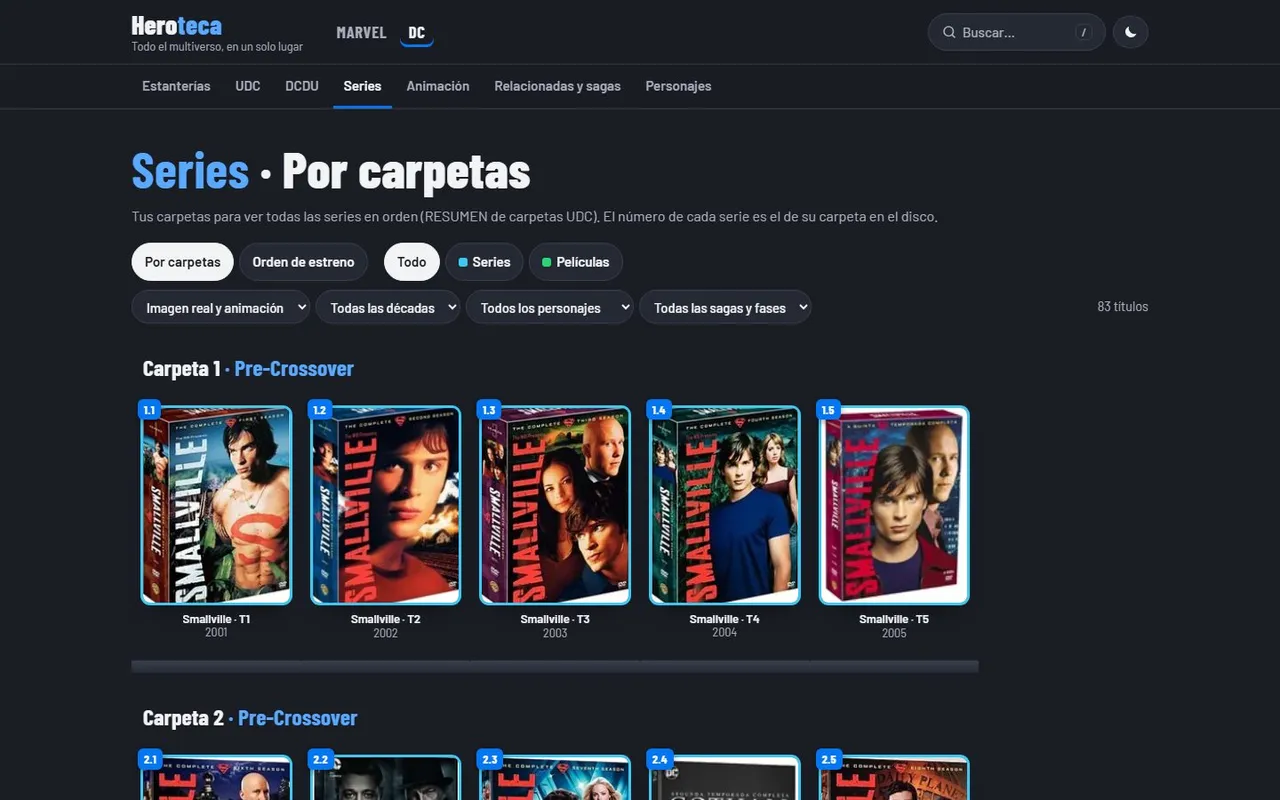
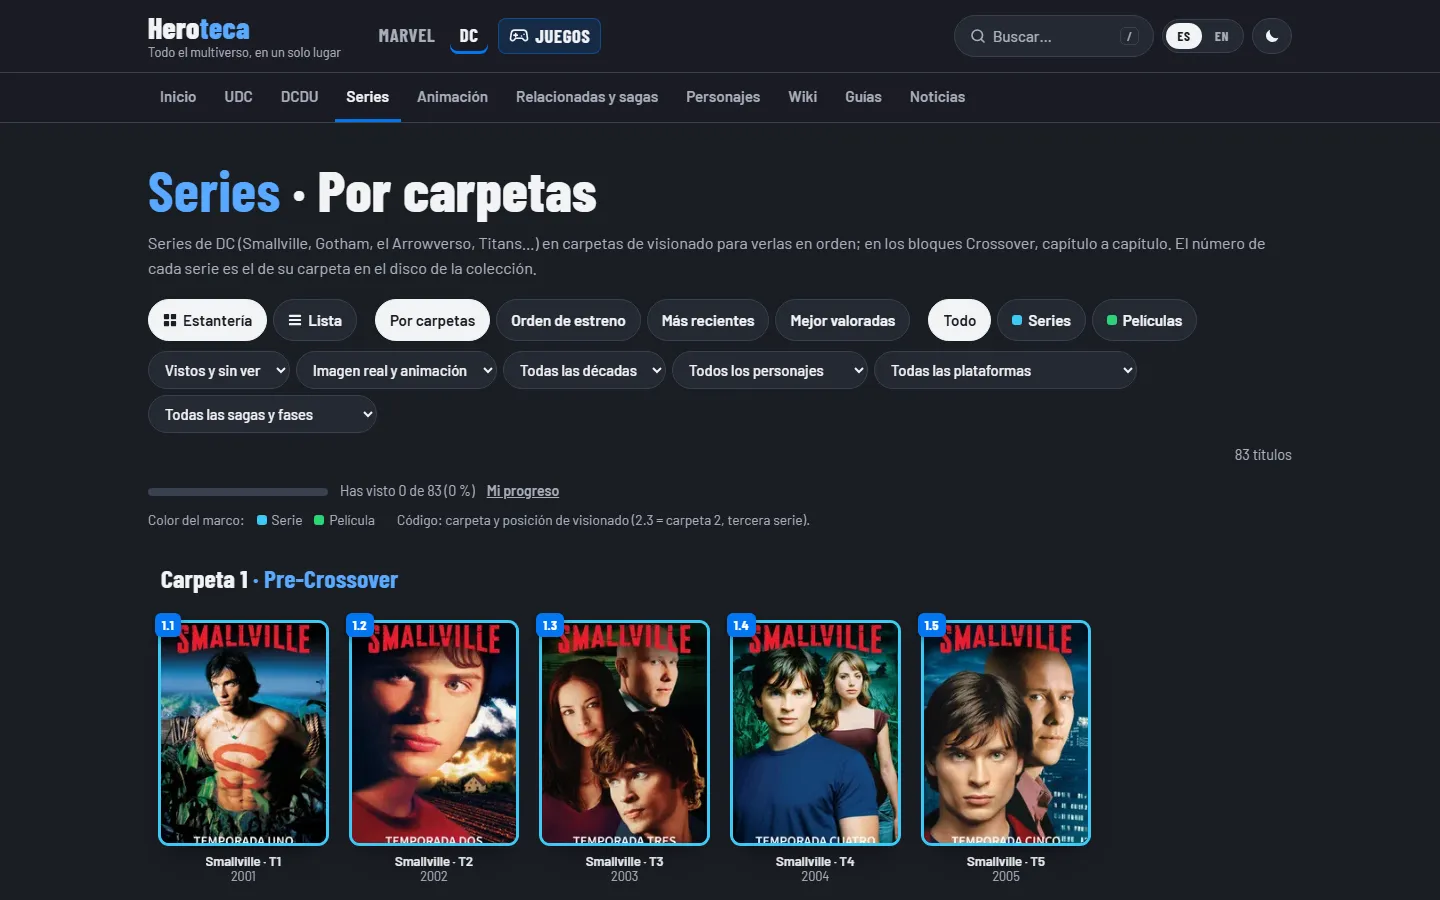
Heroteca como proyecto principal y ficha al día
- Heroteca pasa a ser el primer proyecto.
- Corrige datos antiguos: bilingüe, 426 fichas, 180 personajes y Lighthouse.
- Añade herramientas, datos automáticos y capturas nuevas de la web publicada.
- Café Sinnoh: el aviso indica qué credenciales se han cambiado y cuáles faltan.

diff --git a/src/content/projects/heroteca/index.ts b/src/content/projects/heroteca/index.ts
@@ -2,10 +2,12 @@ import type { Project } from "@/content/types";
 import cover from "./cover.webp";
 import dcOrdenCrossover from "./dc-orden-crossover.webp";
 import dcSeriesCarpetas from "./dc-series-carpetas.webp";
+import estadisticas from "./estadisticas.webp";
 import ficha from "./ficha.webp";
 import marvelUmcClaro from "./marvel-umc-claro.webp";
+import pasatiempos from "./pasatiempos.webp";
 
-// Datos tomados del README de heroteca y de la medición de Lighthouse que hizo el autor.
+// Datos tomados del README de heroteca, que incluye la medición de Lighthouse.
 // No añadir nada que no esté allí.
 export const heroteca: Project = {
   slug: "heroteca",
@@ -13,8 +15,8 @@ export const heroteca: Project = {
   year: 2026,
   featured: true,
   summary: {
-    es: "Enciclopedia de películas, series y animación de Marvel y DC generada a partir de un archivo personal de documentos Word y PowerPoint: 423 fichas, estanterías con la numeración original y órdenes de visionado capítulo a capítulo.",
-    en: "An encyclopedia of Marvel and DC films, series and animation generated from a personal archive of Word and PowerPoint documents: 423 entries, shelves with the original numbering and episode-by-episode viewing orders.",
+    es: "Enciclopedia bilingüe de películas, series y animación de Marvel y DC generada a partir de un archivo personal de documentos Word y PowerPoint: 426 fichas, órdenes de visionado capítulo a capítulo y datos que se actualizan solos.",
+    en: "A bilingual encyclopedia of Marvel and DC films, series and animation generated from a personal archive of Word and PowerPoint documents: 426 entries, episode-by-episode viewing orders and data that updates itself.",
   },
   kind: {
     es: "Proyecto personal · Web pública",
@@ -25,34 +27,34 @@ export const heroteca: Project = {
     en: "Product, design and development",
   },
   duration: {
-    es: "oct. 2026",
-    en: "Oct 2026",
+    es: "oct.–nov. 2026",
+    en: "Oct–Nov 2026",
   },
-  stack: ["Astro", "TypeScript", "Zod", "Python", "TMDB API"],
+  stack: ["Astro", "TypeScript", "Zod", "Python", "TMDB API", "GitHub Actions"],
   links: {
     live: "https://heroteca.vercel.app",
     repo: "https://github.com/Vicram4/heroteca",
   },
   liveKind: "site",
   liveNote: {
-    es: "Pulsa / en cualquier página para buscar. La web está solo en español.",
-    en: "Press / on any page to search. The site is in Spanish only.",
+    es: "Pulsa / en cualquier página para buscar. Disponible en español e inglés.",
+    en: "Press / on any page to search. Available in Spanish and English.",
   },
   cover: {
     src: cover,
     alt: {
-      es: "Portada de Heroteca: el lema «Todo el multiverso, en un solo lugar» y la elección de universo, con dos tarjetas hechas de carátulas: Marvel, con 246 títulos, y DC, con 177.",
-      en: "Heroteca home page: the tagline “The whole multiverse, in one place” and a choice of universe, with two cards made of DVD covers: Marvel, with 246 titles, and DC, with 177.",
+      es: "Portada de Heroteca: el lema «Todo el multiverso, en un solo lugar», el selector de idioma y la elección de universo, con dos tarjetas hechas de carteles: Marvel, con 247 títulos, y DC, con 179. Debajo, el test «¿No sabes qué ver?».",
+      en: "Heroteca home page: the tagline “The whole multiverse, in one place”, the language switcher and a choice of universe, with two cards made of posters: Marvel, with 247 titles, and DC, with 179. Below, the “Not sure what to watch?” quiz.",
     },
   },
 
   stats: [
-    { value: "423", label: { es: "fichas de Marvel y DC", en: "Marvel and DC entries" } },
+    { value: "426", label: { es: "fichas de Marvel y DC", en: "Marvel and DC entries" } },
     {
       value: "100",
       label: {
-        es: "en accesibilidad y SEO (Lighthouse)",
-        en: "accessibility and SEO (Lighthouse)",
+        es: "en accesibilidad, SEO y buenas prácticas (Lighthouse)",
+        en: "accessibility, SEO and best practices (Lighthouse)",
       },
     },
     { value: "0 €", label: { es: "de coste: planes gratuitos", en: "cost: free plans only" } },
@@ -72,16 +74,16 @@ export const heroteca: Project = {
       group: { es: "Explorar", en: "Browsing" },
       items: {
         es: [
-          "Estanterías con la numeración original y orden alternable: de la historia o de estreno.",
+          "Estanterías con la numeración original, vista de lista y cuatro órdenes: el de la colección, estreno, más recientes y mejor valoradas.",
           "Series de DC ordenadas por carpetas, con el orden de visionado capítulo a capítulo entre varias series.",
-          "Filtros por tipo, década, personaje y saga.",
-          "Búsqueda instantánea con el atajo /, que también encuentra títulos originales y alternativos.",
+          "Filtros por tipo, década, personaje, saga y plataforma.",
+          "Búsqueda instantánea con el atajo /, que también encuentra títulos originales y alternativos, y actores.",
         ],
         en: [
-          "Shelves with the original numbering and a switchable order: story order or release order.",
+          "Shelves with the original numbering, a list view and four orders: collection, release, most recent and top rated.",
           "DC series ordered by folder, with the episode-by-episode viewing order across several series.",
-          "Filters by type, decade, character and saga.",
-          "Instant search with the / shortcut, which also finds original and alternative titles.",
+          "Filters by type, decade, character, saga and platform.",
+          "Instant search with the / shortcut, which also finds original and alternative titles, and actors.",
         ],
       },
     },
@@ -101,19 +103,53 @@ export const heroteca: Project = {
       },
     },
     {
+      group: { es: "Herramientas", en: "Tools" },
+      items: {
+        es: [
+          "«¿Qué veo?»: una encuesta de 7 preguntas que recomienda títulos según tu tiempo, tus plataformas y tus gustos.",
+          "Mi progreso: marca lo que has visto y consulta el avance por sección; se guarda solo en el navegador, sin cuentas.",
+          "Planificador de maratones que reparte las horas en sesiones con descansos; el plan viaja en el enlace, sin servidor.",
+          "Estadísticas y rankings con gráficos accesibles, y 11 juegos hechos con los datos de la colección.",
+        ],
+        en: [
+          "“What should I watch?”: a 7-question quiz that recommends titles based on your time, platforms and tastes.",
+          "My progress: mark what you’ve watched and check your progress by section; it’s stored only in the browser, with no accounts.",
+          "Marathon planner that splits the hours into sessions with breaks; the plan travels in the link, with no server.",
+          "Statistics and rankings with accessible charts, and 11 games built from the collection’s data.",
+        ],
+      },
+    },
+    {
+      group: { es: "Datos al día", en: "Up-to-date data" },
+      items: {
+        es: [
+          "«Dónde ver» (datos de JustWatch) y el calendario de estrenos se actualizan solos cada semana con GitHub Actions.",
+          "Noticias de Marvel y DC recogidas cada día por RSS de medios especializados, con enlace a la fuente.",
+          "Para el mantenimiento, un aviso semanal por correo con estrenos anunciados, cambios de fecha y títulos que faltan en la colección.",
+        ],
+        en: [
+          "“Where to watch” (JustWatch data) and the release calendar update themselves every week with GitHub Actions.",
+          "Marvel and DC news collected daily via RSS from specialist outlets, linking to the source.",
+          "For maintenance, a weekly email alert with announced releases, date changes and titles missing from the collection.",
+        ],
+      },
+    },
+    {
       group: { es: "Contenido y calidad", en: "Content and quality" },
       items: {
         es: [
-          "423 fichas (246 de Marvel y 177 de DC), 171 personajes y 42 sagas y agrupaciones.",
-          "Lighthouse: accesibilidad y SEO 100, buenas prácticas 96–100 y rendimiento 94–98.",
+          "426 fichas (247 de Marvel y 179 de DC), 180 personajes y 42 sagas y agrupaciones.",
+          "Wiki con 273 textos en español e inglés y páginas de 287 intérpretes.",
+          "Lighthouse: accesibilidad, SEO y buenas prácticas 100, y rendimiento 90–99.",
           "Contraste AA en ambos modos, navegación por teclado con foco visible y respeto a «reducir movimiento».",
-          "Datos estructurados de schema.org (películas, series y temporadas) y mapa del sitio.",
+          "Datos estructurados de schema.org, mapa del sitio y hreflang; comprobación de unos 47.000 enlaces internos y 1.340 parejas de idioma.",
         ],
         en: [
-          "423 entries (246 Marvel and 177 DC), 171 characters and 42 sagas and groupings.",
-          "Lighthouse: accessibility and SEO 100, best practices 96–100 and performance 94–98.",
+          "426 entries (247 Marvel and 179 DC), 180 characters and 42 sagas and groupings.",
+          "A wiki with 273 texts in Spanish and English, and pages for 287 performers.",
+          "Lighthouse: accessibility, SEO and best practices 100, and performance 90–99.",
           "AA contrast in both modes, keyboard navigation with a visible focus and support for “reduce motion”.",
-          "schema.org structured data (films, series and seasons) and a sitemap.",
+          "schema.org structured data, a sitemap and hreflang; checks on about 47,000 internal links and 1,340 language pairs.",
         ],
       },
     },
@@ -139,12 +175,22 @@ export const heroteca: Project = {
     },
     {
       title: {
-        es: "Ni claves ni llamadas desde el navegador",
-        en: "No keys or calls from the browser",
+        es: "Ninguna clave en el navegador",
+        en: "No keys in the browser",
       },
       text: {
-        es: "TMDB solo se consulta al sincronizar, nunca desde el navegador. Los datos se guardan en un JSON compacto dentro del repositorio, así que la web publicada no necesita claves ni hace llamadas externas. El tráiler usa youtube-nocookie y solo se carga al pulsarlo.",
-        en: "TMDB is only queried when syncing, never from the browser. The data is stored as compact JSON in the repository, so the live site needs no keys and makes no external calls. The trailer uses youtube-nocookie and only loads when clicked.",
+        es: "TMDB solo se consulta al sincronizar, nunca desde el navegador, y su clave se guarda como secreto de GitHub. Los datos quedan en un JSON compacto dentro del repositorio, así que las páginas no dependen de ninguna API. El tráiler usa youtube-nocookie y solo se carga al pulsarlo, y las visitas se miden con Cloudflare Web Analytics, sin cookies.",
+        en: "TMDB is only queried when syncing, never from the browser, and its key is stored as a GitHub secret. The data ends up as compact JSON in the repository, so pages don’t depend on any API. The trailer uses youtube-nocookie and only loads when clicked, and visits are measured with Cloudflare Web Analytics, with no cookies.",
+      },
+    },
+    {
+      title: {
+        es: "Dos idiomas sin duplicar páginas",
+        en: "Two languages without duplicating pages",
+      },
+      text: {
+        es: "Cada página existe una sola vez y genera su versión española y la inglesa. Las direcciones en inglés se calculan a partir de los datos, como el título inglés de cada ficha, así que no hay ninguna tabla de rutas que mantener.",
+        en: "Each page exists only once and generates both its Spanish and English versions. English URLs are computed from the data, such as each entry’s English title, so there’s no route table to maintain.",
       },
     },
     {
@@ -153,8 +199,8 @@ export const heroteca: Project = {
         en: "Static and ready to grow",
       },
       text: {
-        es: "La web es 100 % estática, sin framework de cliente: solo unas pocas islas de JavaScript sin dependencias (buscador, filtros, tema, spoilers y tráiler). Añadir un universo nuevo es crear un archivo YAML; las rutas, la navegación y la portada se generan solas.",
-        en: "The site is 100% static, with no client-side framework: just a few dependency-free JavaScript islands (search, filters, theme, spoilers and trailer). Adding a new universe means creating one YAML file; routes, navigation and the home page are generated automatically.",
+        es: "La web es 100 % estática, sin framework de cliente: el JavaScript, sin dependencias, se limita a islas como el buscador, los filtros, los juegos o el planificador. Añadir un universo nuevo es crear un archivo YAML; las rutas, la navegación y la portada se generan solas.",
+        en: "The site is 100% static, with no client-side framework: the JavaScript, free of dependencies, is limited to islands such as search, filters, games and the planner. Adding a new universe means creating one YAML file; routes, navigation and the home page are generated automatically.",
       },
     },
   ],
@@ -166,9 +212,12 @@ export const heroteca: Project = {
     },
     {
       layer: { es: "Extracción de datos", en: "Data extraction" },
-      items: ["Python", "python-docx", "python-pptx", "PyMuPDF", "Pillow", "TMDB API"],
+      items: ["Python", "python-docx", "python-pptx", "PyMuPDF", "Pillow", "TMDB API", "JustWatch"],
     },
-    { layer: { es: "Infraestructura", en: "Infrastructure" }, items: ["Vercel"] },
+    {
+      layer: { es: "Infraestructura", en: "Infrastructure" },
+      items: ["Vercel", "GitHub Actions", "Cloudflare Web Analytics"],
+    },
   ],
 
   gallery: [
@@ -180,8 +229,8 @@ export const heroteca: Project = {
         en: "DC series ordered by the archive’s folders",
       },
       alt: {
-        es: "Página «Series · Por carpetas» de DC: botones de orden y tipo, filtros por década, personaje y saga, y la Carpeta 1 · Pre-Crossover con las cinco primeras temporadas de Smallville numeradas del 1.1 al 1.5.",
-        en: "DC “Series · By folder” page: order and type buttons, filters by decade, character and saga, and Folder 1 · Pre-Crossover with the first five seasons of Smallville numbered 1.1 to 1.5.",
+        es: "Página «Series · Por carpetas» de DC: botones de vista, orden y tipo, filtros por década, personaje, plataforma y saga, y la Carpeta 1 · Pre-Crossover con las cinco primeras temporadas de Smallville numeradas del 1.1 al 1.5.",
+        en: "DC “Series · By folder” page: view, order and type buttons, filters by decade, character, platform and saga, and Folder 1 · Pre-Crossover with the first five seasons of Smallville numbered 1.1 to 1.5.",
       },
     },
     {
@@ -204,8 +253,8 @@ export const heroteca: Project = {
         en: "Entry with data from the archive and from TMDB",
       },
       alt: {
-        es: "Ficha de Watchmen, número 021 del UDC: cartel, etiquetas de película, 2009, 163 min y calidad 4K, sinopsis marcada como «Sinopsis de TMDB» y el tráiler con un botón de reproducir.",
-        en: "Watchmen entry, number 021 of the DCU: poster, tags for film, 2009, 163 min and 4K quality, a synopsis labelled “Synopsis from TMDB” and the trailer with a play button.",
+        es: "Ficha de Watchmen, número 021 del UDC: cartel, etiquetas de película, 2009, 163 min y calidad 4K, botón «Marcar como visto», un párrafo «En resumen» y la sinopsis marcada como «Sinopsis de TMDB».",
+        en: "Watchmen entry, number 021 of the DCU: poster, tags for film, 2009, 163 min and 4K quality, a “Mark as watched” button, an “In short” paragraph and a synopsis labelled “Synopsis from TMDB”.",
       },
     },
     {
@@ -216,18 +265,42 @@ export const heroteca: Project = {
         en: "MCU shelf in light mode",
       },
       alt: {
-        es: "Página «UMC · Orden cronológico» en modo claro: botones de orden de la historia o de estreno, filtros por tipo, y carátulas numeradas desde el 001, Capitán América: El primer vengador, con un borde de color según el tipo.",
-        en: "“MCU · Chronological order” page in light mode: story or release order buttons, filters by type, and covers numbered from 001, Captain America: The First Avenger, each with a colour border by type.",
+        es: "Página «UMC · Orden cronológico» en modo claro: botones de vista y de los cuatro órdenes, filtros por tipo, y carteles numerados desde el 001, Capitán América: El primer vengador, con un borde de color según el tipo.",
+        en: "“MCU · Chronological order” page in light mode: view buttons and the four orders, filters by type, and posters numbered from 001, Captain America: The First Avenger, each with a colour border by type.",
+      },
+    },
+    {
+      src: estadisticas,
+      size: "half",
+      caption: {
+        es: "Estadísticas calculadas con los datos de la colección",
+        en: "Statistics computed from the collection’s data",
+      },
+      alt: {
+        es: "Página «Estadísticas»: 1686 horas para verlo todo, 426 títulos, 471 horas de maratón del UMC, 80 de 222 películas con escena poscréditos y un gráfico de barras con las horas de cada sección.",
+        en: "“Statistics” page: 1,686 hours to watch it all, 426 titles, a 471-hour MCU marathon, 80 of 222 films with a post-credits scene and a bar chart with the hours of each section.",
+      },
+    },
+    {
+      src: pasatiempos,
+      size: "half",
+      caption: {
+        es: "Juegos hechos con los datos de la colección",
+        en: "Games built from the collection’s data",
+      },
+      alt: {
+        es: "Página «Pasatiempos»: tarjetas de juegos como Heroedle, Adivina el personaje, Cartel pixelado, ¿Qué héroe eres? y Conecta a los actores, cada una con su descripción y un enlace para jugar.",
+        en: "“Games” page: cards for games such as Heroedle, Guess the character, Pixelated poster, Which hero are you? and Connect the actors, each with a description and a link to play.",
       },
     },
   ],
 
   credits: {
-    es: "Dirigí el proyecto de principio a fin: el archivo original, la idea, las decisiones de producto, diseño y tecnología, y la revisión y prueba de cada parte antes de darla por terminada. Lo desarrollé con Claude Code como asistente de programación.",
-    en: "I led the project from start to finish: the original archive, the idea, the product, design and technology decisions, and reviewing and testing every part before calling it done. I built it with Claude Code as a coding assistant.",
+    es: "Dirigí el proyecto de principio a fin: el archivo original, la idea, las decisiones de producto, diseño y tecnología, y la revisión y prueba de cada parte antes de darla por terminada. Lo desarrollé con Claude Code como asistente de programación y de redacción de los textos de la wiki.",
+    en: "I led the project from start to finish: the original archive, the idea, the product, design and technology decisions, and reviewing and testing every part before calling it done. I built it with Claude Code as an assistant for coding and for writing the wiki texts.",
   },
   notice: {
-    es: "Proyecto de fans sin ánimo de lucro y no oficial, sin relación con Marvel, DC, Disney ni Warner Bros. Todos los personajes y marcas pertenecen a sus respectivos propietarios. Usa TMDB y su API, pero no está respaldado ni certificado por TMDB.",
-    en: "Non-profit, unofficial fan project, not affiliated with Marvel, DC, Disney or Warner Bros. All characters and trademarks belong to their respective owners. It uses TMDB and the TMDB API but is not endorsed or certified by TMDB.",
+    es: "Proyecto de fans sin ánimo de lucro y no oficial, sin relación con Marvel, DC, Disney ni Warner Bros. Todos los personajes y marcas pertenecen a sus respectivos propietarios. Usa TMDB y su API, pero no está respaldado ni certificado por TMDB. Los datos de «Dónde ver» proceden de JustWatch.",
+    en: "Non-profit, unofficial fan project, not affiliated with Marvel, DC, Disney or Warner Bros. All characters and trademarks belong to their respective owners. It uses TMDB and the TMDB API but is not endorsed or certified by TMDB. “Where to watch” data comes from JustWatch.",
   },
 };

diff --git a/src/content/projects/cafe-sinnoh/index.ts b/src/content/projects/cafe-sinnoh/index.ts
@@ -43,8 +43,8 @@ export const cafeSinnoh: Project = {
   },
   // Temporal: borrar cuando Northflank vuelva a ser fiable para reactivar la demo.
   maintenance: {
-    es: "La demo está en pausa por un incidente de seguridad en Northflank, el proveedor que aloja el backend. Por precaución he cambiado las credenciales del proyecto y la demo volverá cuando el servicio sea fiable. Mientras tanto, puedes ver el código y las capturas.",
-    en: "The demo is paused due to a security incident at Northflank, the provider hosting the backend. As a precaution I’ve changed the project’s credentials, and the demo will be back once the service is reliable. In the meantime, you can browse the code and the screenshots.",
+    es: "La demo está en pausa por un incidente de seguridad en Northflank, el proveedor que aloja el backend. Por precaución he cambiado la contraseña de la base de datos y renovaré el resto de claves antes de reactivar la demo, que volverá cuando el servicio sea fiable. Mientras tanto, puedes ver el código y las capturas.",
+    en: "The demo is paused due to a security incident at Northflank, the provider hosting the backend. As a precaution I’ve changed the database password and will renew the remaining keys before reactivating the demo, which will be back once the service is reliable. In the meantime, you can browse the code and the screenshots.",
   },
   cover: {
     src: cover,
@@ -172,8 +172,8 @@ export const cafeSinnoh: Project = {
         en: "In an incident, pause rather than risk it",
       },
       text: {
-        es: "Cuando Northflank, el proveedor del backend, sufrió un incidente de seguridad, pausé la demo pública con un aviso y cambié las credenciales del proyecto. Una demo parada unos días se recupera; unos datos expuestos, no.",
-        en: "When Northflank, the backend provider, suffered a security incident, I paused the public demo with a notice and changed the project’s credentials. A demo that’s down for a few days can be brought back; exposed data can’t.",
+        es: "Cuando Northflank, el proveedor del backend, sufrió un incidente de seguridad, pausé la demo pública con un aviso y cambié la contraseña de la base de datos; el resto de claves se renovará antes de reactivarla. Una demo parada unos días se recupera; unos datos expuestos, no.",
+        en: "When Northflank, the backend provider, suffered a security incident, I paused the public demo with a notice and changed the database password; the remaining keys will be renewed before it’s reactivated. A demo that’s down for a few days can be brought back; exposed data can’t.",
       },
     },
   ],

diff --git a/src/content/projects/index.ts b/src/content/projects/index.ts
@@ -9,7 +9,7 @@ import { projectSlugs } from "./slugs";
  * Para añadir uno: crear su carpeta (index.ts + imágenes), añadirlo aquí
  * y añadir su slug en slugs.ts.
  */
-export const projects: Project[] = [cafeSinnoh, heroteca, peluqueriaArriaga];
+export const projects: Project[] = [heroteca, cafeSinnoh, peluqueriaArriaga];
 
 // Si el registro y slugs.ts no coinciden, la build falla con un mensaje claro.
 const registered = projects
